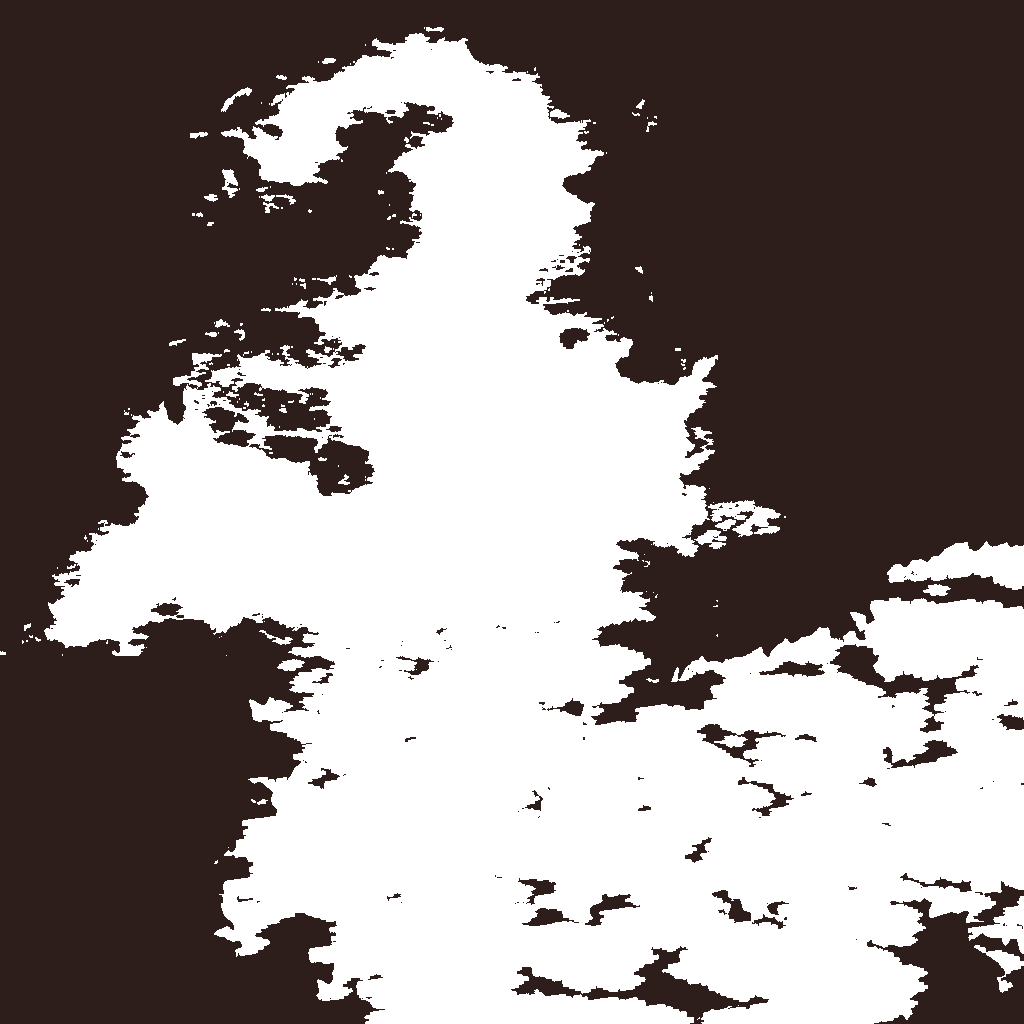
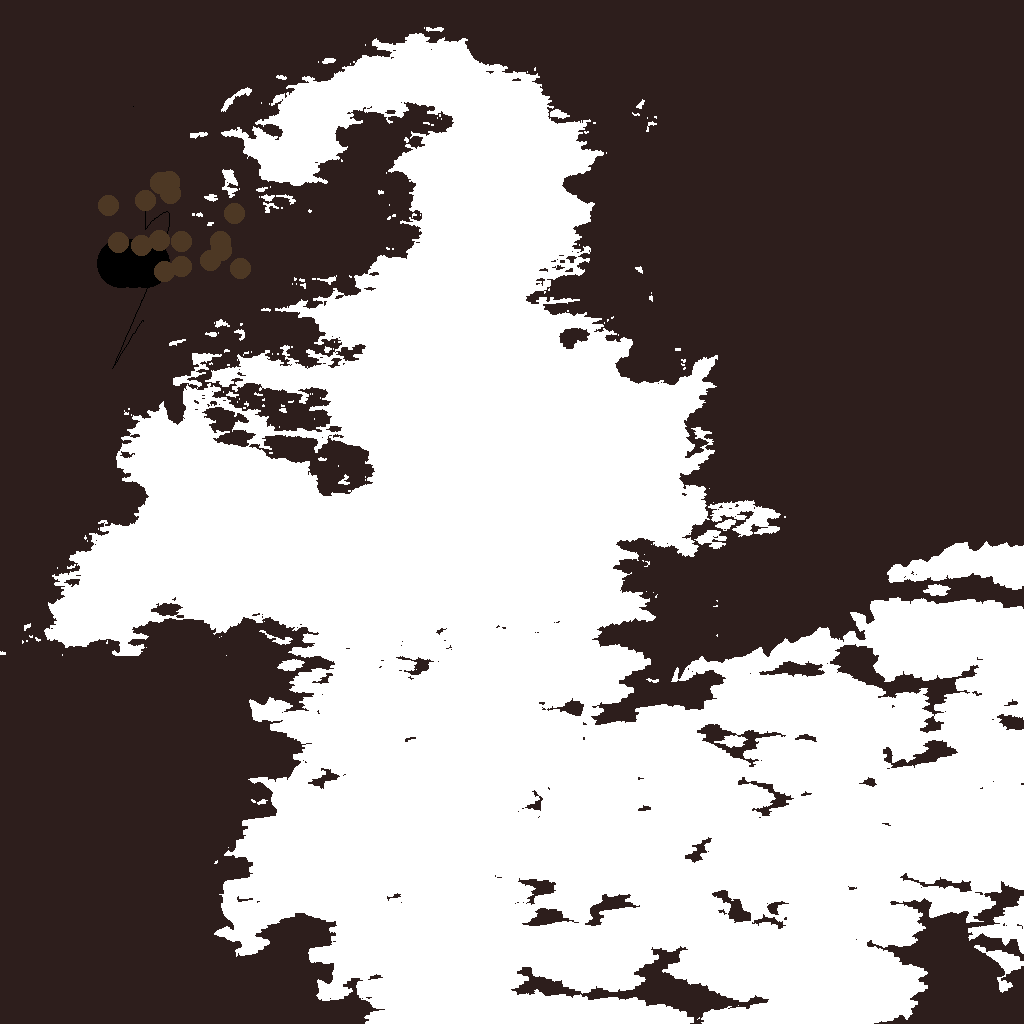
bamboo ambients

Changed region(s): [[0.0938, 0.1562, 0.25, 0.2812]]

diff --git a/src/scenes/WorldScene.ts b/src/scenes/WorldScene.ts
@@ -10,7 +10,7 @@ import { WorldPlayer } from "../world/WorldPlayer";
 import { WorldAmbientObject } from "../world/WorldAmbientObject";
 import { Point } from "../types/Types";
 import { TileGrid } from "../TileGrid";
-import { MapImporterModule } from "../modules/scene/MapImporterModule";
+import { MapImporterModule, MapObjetctData } from "../modules/scene/MapImporterModule";
 
 export class WorldScene extends Phaser.Scene {
 
@@ -45,35 +45,36 @@ export class WorldScene extends Phaser.Scene {
   }
 
   create(data): void {
-
-    this.grid = new TileGrid(this);
-    this.loadMap();
     this.cameras.main.setBackgroundColor(0x1f1f1f);
+
     this.animationRegistry = new AnimationRegistry(this);
     this.animationRegistry.initWorldAnimations();
 
     this.pool = this.add.group();
     this.pool.runChildUpdate = true;
+    
+    this.grid = new TileGrid(this);
+    this.loadMap();
+    
+    // let xs = [{ x: 200, y: 200 },
+    // { x: 324, y: 245 },
+    // { x: 364, y: 209 },
+    // { x: 340, y: 72 },
+    // { x: 274, y: 93 },
+    // { x: 211, y: 147 }];
 
-    let xs = [{ x: 200, y: 200 },
-    { x: 324, y: 245 },
-    { x: 364, y: 209 },
-    { x: 340, y: 72 },
-    { x: 274, y: 93 },
-    { x: 211, y: 147 }];
+    // for (let cords of xs) {
+    //   let ambient = new WorldAmbientObject(this, cords.x, cords.y);
+    //   this.pool.add(ambient);
+    //   this.add.existing(ambient);
+    // }
 
-    for (let cords of xs) {
-      let ambient = new WorldAmbientObject(this, cords.x, cords.y);
-      this.pool.add(ambient);
-      this.add.existing(ambient);
-    }
-
-    let ambient = new WorldAmbientObject(this, 289, 204);
-    ambient.playFireAnim();
-    ambient.scaleX = 0.5
-    ambient.scaleY = 0.5
-    this.pool.add(ambient);
-    this.add.existing(ambient);
+    // let ambient = new WorldAmbientObject(this, 289, 204);
+    // ambient.playFireAnim();
+    // ambient.scaleX = 0.5
+    // ambient.scaleY = 0.5
+    // this.pool.add(ambient);
+    // this.add.existing(ambient);
 
     this.player = new WorldPlayer(this, 428, 320, this.grid);
     this.pool.add(this.player);
@@ -156,6 +157,31 @@ export class WorldScene extends Phaser.Scene {
       // o.depth = o.y - 24;
       
     };
+
+    this.mapImporter.ambientHandler = (o: MapObjetctData) => {
+      if (o.texture == 'ambient_1') {
+        let ambient = new WorldAmbientObject(this, o.x, o.y);
+        this.pool.add(ambient);
+        this.add.existing(ambient);
+        ambient.depth = o.depth;
+      } else if (o.texture == 'ambient_3') {
+        let ambient = new WorldAmbientObject(this, o.x, o.y);
+        ambient.playFireAnim();
+        ambient.scaleX = 0.5
+        ambient.scaleY = 0.5
+        ambient.depth = o.depth + 6;
+        this.pool.add(ambient);
+        this.add.existing(ambient);
+      } else if(o.texture == 'ambient_2') {
+        let ambient = new WorldAmbientObject(this, o.x, o.y - 50);
+        ambient.playBambooAnim();
+        ambient.depth = o.depth;
+
+        this.pool.add(ambient);
+        this.add.existing(ambient);
+      }      
+    };
+
 
     // this.mapImporter.enemyHandler = (p: Point, type: string) => {
     //   let tile = this.grid.worldToGrid(p)

diff --git a/src/AssetsLoader.ts b/src/AssetsLoader.ts
@@ -12,6 +12,7 @@ export let ASSETS = {
   GRASS_MAX: 2,
   HOUSE_MAX: 8,
   DEVICES_MAX: 3,
+  AMBIENT_MAX: 3,
 }
 
 export class AssetsLoader {
@@ -23,28 +24,29 @@ export class AssetsLoader {
     for (let idx = 1; idx <= ASSETS.TERRAIN_MAX; idx++) {
       scene.load.image("terrain_" + (idx < 10 ? '0':'') + idx, "./assets/gaminator/terrain/terrain_" + (idx < 10 ? '0':'') + idx + ".png");
     }
-
     for (let idx = 1; idx <= ASSETS.TERRAIN_MAX; idx++) {
       scene.load.image("water_" + (idx < 10 ? '0':'') + idx, "./assets/gaminator/terrain/water_" + (idx < 10 ? '0':'') + idx + ".png");
     }
-
     for (let idx = 1; idx <= ASSETS.GRASS_MAX; idx++) {
       scene.load.image("grass_" + idx, "./assets/gaminator/map_objects/grass_" + idx + ".png");
     }
-    // for (let idx = 1; idx <= 4; idx++) {
-    //   scene.load.image("actor_" + idx, "./assets/tilemap/actor_" + idx + ".png");
-    // }
+    for (let idx = 1; idx <= ASSETS.AMBIENT_MAX; idx++) {
+      scene.load.image("ambient_" + idx, "./assets/gaminator/map_objects/ambient_" + idx + ".png");
+    }
     for (let idx = 1; idx <= ASSETS.DEVICES_MAX; idx++) {
       scene.load.image("device_" + idx, "./assets/gaminator/map_objects/device_" + idx + ".png");
     }
 
-    // scene.load.image("grass_1", "./assets/gaminator/grass_1.png");
-    // scene.load.image("grass_2", "./assets/gaminator/grass_2.png");
 
     scene.load.spritesheet('bubble1_128x128', './assets/gaminator/fx/bubble1_128x128.png', { frameWidth: 128, frameHeight: 128 });
     scene.load.spritesheet('bubble2_128x128', './assets/gaminator/fx/bubble2_128x128.png', { frameWidth: 128, frameHeight: 128 });
     scene.load.spritesheet('bubble3_128x128', './assets/gaminator/fx/bubble3_128x128.png', { frameWidth: 128, frameHeight: 128 });
     scene.load.spritesheet('fire_128x128', './assets/gaminator/fx/fire_128x128.png', { frameWidth: 128, frameHeight: 128 });
+
+    scene.load.spritesheet('bamboo1_40x96', './assets/gaminator/fx/bamboo1_40x96.png', { frameWidth: 40, frameHeight: 96 });
+    scene.load.spritesheet('bamboo2_31x128', './assets/gaminator/fx/bamboo2_31x128.png', { frameWidth: 31, frameHeight: 128 });
+    scene.load.spritesheet('bamboo3_32x128', './assets/gaminator/fx/bamboo3_32x128.png', { frameWidth: 32, frameHeight: 128 });
+    scene.load.spritesheet('bamboo4_39x128', './assets/gaminator/fx/bamboo4_39x128.png', { frameWidth: 39, frameHeight: 128 });
 
     scene.load.spritesheet('player_idle_back_128x128', './assets/gaminator/player/idle_back_128x128.png', { frameWidth: 128, frameHeight: 128 });
     scene.load.spritesheet('player_idle_front_128x128', './assets/gaminator/player/idle_front_128x128.png', { frameWidth: 128, frameHeight: 128 });

diff --git a/src/AnimationRegistry.ts b/src/AnimationRegistry.ts
@@ -19,12 +19,12 @@ export class AnimationRegistry {
   public initWorldAnimations() {
     this.registerPlayerAnimations(this.scene);
     this.registerAmbientAnimations(this.scene);
-    // 4 13
-    // 3 13
-    // 2 9
+    
   }
 
   private registerAmbientAnimations(scene: Scene) {
+    
+    // Bubbles
     scene.anims.create({
       key: 'bubble1_anim',
       frames: scene.anims.generateFrameNumbers('bubble1_128x128', { start: 0, end: 34 }),
@@ -49,12 +49,48 @@ export class AnimationRegistry {
       repeatDelay: 0,
       hideOnComplete: true
     });
+    
+    // Fire
     scene.anims.create({
       key: 'fire_anim',
       frames: scene.anims.generateFrameNumbers('fire_128x128', { start: 0, end: 4 }),
       frameRate: 4,
       repeat: -1,
       repeatDelay: 0,
+      hideOnComplete: false
+    });
+
+    // Bamboo
+    scene.anims.create({
+      key: 'bamboo1_anim',
+      frames: scene.anims.generateFrameNumbers('bamboo1_40x96', { start: 0, end: 15 }),
+      frameRate: 4,
+      repeat: -1,
+      repeatDelay: 0.5,
+      hideOnComplete: false,
+    });
+    scene.anims.create({
+      key: 'bamboo2_anim',
+      frames: scene.anims.generateFrameNumbers('bamboo2_31x128', { start: 0, end: 8 }),
+      frameRate: 4,
+      repeat: -1,
+      repeatDelay: 0.4,
+      hideOnComplete: false
+    });
+    scene.anims.create({
+      key: 'bamboo3_anim',
+      frames: scene.anims.generateFrameNumbers('bamboo3_32x128', { start: 0, end: 12 }),
+      frameRate: 4,
+      repeat: -1,
+      repeatDelay: 0.3,
+      hideOnComplete: false
+    });
+    scene.anims.create({
+      key: 'bamboo4_anim',
+      frames: scene.anims.generateFrameNumbers('bamboo4_39x128', { start: 0, end: 12 }),
+      frameRate: 4,
+      repeat: -1,
+      repeatDelay: 0.2,
       hideOnComplete: false
     });
   }

diff --git a/src/modules/scene/MapImporterModule.ts b/src/modules/scene/MapImporterModule.ts
@@ -10,6 +10,12 @@ import { UI_DEPTH } from "../../const/const";
 import { GameObjects } from "phaser";
 import { Point } from "../../types/Types";
 
+export type MapObjetctData = {
+  texture: string,
+  depth: number,
+  x: number,
+  y: number
+}
 export class MapImporterModule {
   private scene: Phaser.Scene;
   private grid: TileGrid;
@@ -17,6 +23,7 @@ export class MapImporterModule {
   public enemyHandler: (p: Point, type: string) => void;
 
   public grassHandler: (obj:GameObjects.Image, item: any) => void;
+  public ambientHandler: (obj: MapObjetctData) => void;
 
   constructor(scene: Phaser.Scene, grid: TileGrid) {
     this.scene = scene;
@@ -58,8 +65,11 @@ export class MapImporterModule {
       if (data.texture == 'actor_2') enemyType = 'tower'
       if (data.texture == 'actor_3') enemyType = 'boss'
       if (data.texture == 'actor_4') enemyType = 'k11'
+      
       this.enemyHandler(data, enemyType);
       return null;      
+    } else if (data.texture.startsWith('ambient_') && this.ambientHandler) {
+       this.ambientHandler(data);
     } else return this.createImageFromConfig(data);
   }
 

diff --git a/src/scenes/editorRootScene.ts b/src/scenes/editorRootScene.ts
@@ -284,10 +284,10 @@ export class EditorRootScene extends Phaser.Scene {
     this.toolsPanel.positionText.innerHTML = this.cursor.x + ':' + this.cursor.y;
     let tile = this.grid.getTileIJ(this.cursor);
     if (tile) {
-      let walkable = tile.walkable ? 'free' : 'blocked';
-      this.toolsPanel.statusText.innerHTML = tile.i + ':' + tile.j + ' ' + walkable;
+      let walkable = tile.walkable ? '<br>free ' : '<br>blocked';
+      this.toolsPanel.statusText.innerHTML = ''+tile.i + ':' + tile.j + ' ' + walkable;
     } else {
-      this.toolsPanel.statusText.innerHTML = 'OFF GRID';
+      this.toolsPanel.statusText.innerHTML = '<br>OFF GRID';
     }
   }
 

diff --git a/src/windows/ObjectsListPanel.ts b/src/windows/ObjectsListPanel.ts
@@ -45,8 +45,8 @@ export class ObjectsListPanel extends BaseWindow {
         // this.removeAll();
     
         this.ambientButton.addEventListener('click', () => {
-            this.filenamePrefix = 'actor';
-            this.maxIdx = 4;
+            this.filenamePrefix = 'ambient';
+            this.maxIdx = ASSETS.AMBIENT_MAX;
             this.repopulate();
         });
         this.devicesButton.addEventListener('click', () => {

diff --git a/src/world/WorldAmbientObject.ts b/src/world/WorldAmbientObject.ts
@@ -31,4 +31,10 @@ export class WorldAmbientObject extends Phaser.GameObjects.Sprite {
     this.animPlaying = true;
     this.visible = true;
   }
+
+  public playBambooAnim() {
+    this.play('bamboo'+Math.floor(Math.random()*4 + 1)+'_anim');
+    this.animPlaying = true;
+    this.visible = true;
+  }
 }
